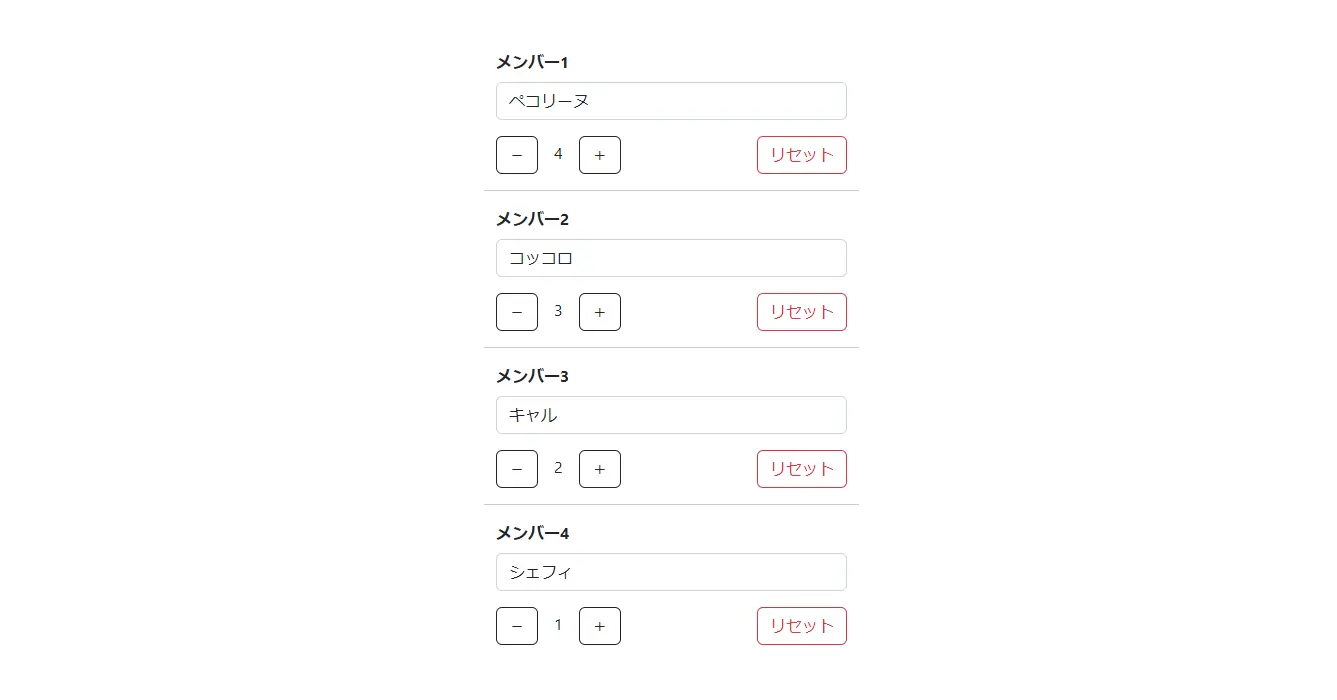
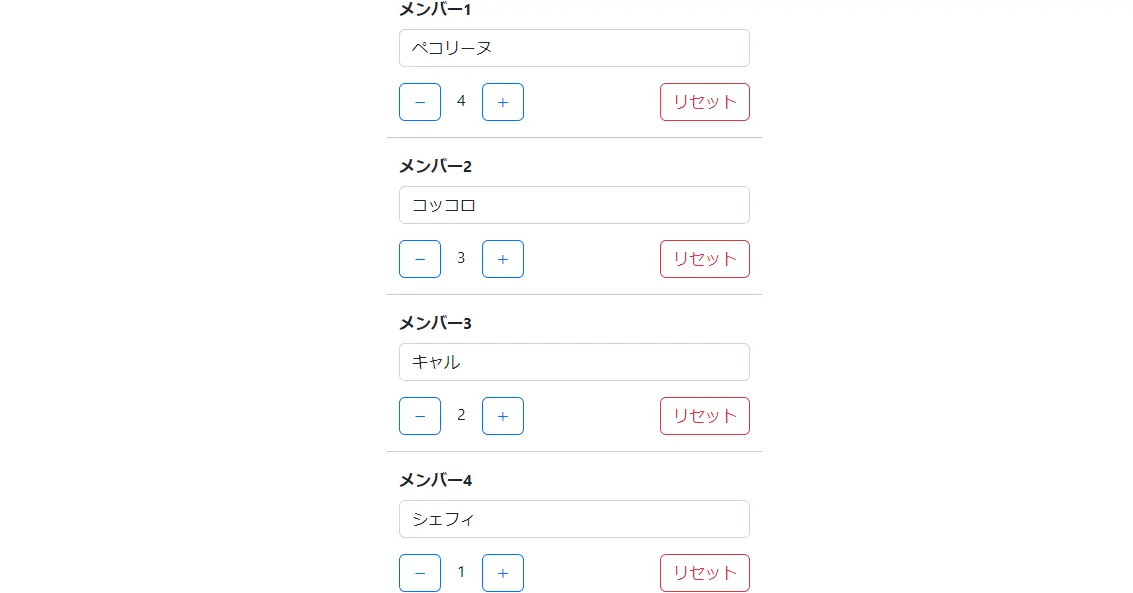
fix

diff --git a/pages/_document.tsx b/pages/_document.tsx
@@ -1,28 +1,46 @@
 import { Html, Head, Main, NextScript } from "next/document";
+import Document, { DocumentContext, DocumentInitialProps } from 'next/document'
+import nookies from "nookies";
 
-export default function Document() {
-  return (
-    <Html>
-      <Head>
-        <meta charSet="utf-8" />
-        <meta name="description" content="プリコネRのいいね管理ツール" />
-        <meta name="twitter:card" content="summary_large_image" />
-        <meta name="twitter:site" content="@JADENgygo" />
-        <meta property="og:type" content="website" />
-        <meta property="og:title" content="プリコネグッド" />
-        <meta property="og:description" content="プリコネRのいいね管理ツール" />
-        <meta property="og:url" content="https://priconne-good.vercel.app" />
-        <meta
-          property="og:image"
-          content="https://priconne-good.vercel.app/img/card.webp"
-        />
-        <link rel="icon" href="/img/peko.png" />
-      </Head>
-      <body>
-        <script src="/script.js" async />
-        <Main />
-        <NextScript />
-      </body>
-    </Html>
-  );
+class MyDocument extends Document {
+  static theme: string = "";
+
+  static async getInitialProps(ctx: DocumentContext): Promise<DocumentInitialProps> {
+    const cookie = nookies.get(ctx);
+    MyDocument.theme = cookie.theme === "dark" ? "dark" : "light";
+    nookies.set(ctx, "theme", MyDocument.theme, {
+      maxAge: 60 * 60 * 24 * 30 * 12 * 1,
+      path: "/"
+    });
+    const initialProps = await Document.getInitialProps(ctx);
+    return initialProps;
+  }
+
+  render() {
+    return (
+      <Html className={MyDocument.theme}>
+        <Head>
+          <meta charSet="utf-8" />
+          <meta name="description" content="プリコネRのいいね管理ツール" />
+          <meta name="twitter:card" content="summary_large_image" />
+          <meta name="twitter:site" content="@JADENgygo" />
+          <meta property="og:type" content="website" />
+          <meta property="og:title" content="プリコネグッド" />
+          <meta property="og:description" content="プリコネRのいいね管理ツール" />
+          <meta property="og:url" content="https://priconne-good.vercel.app" />
+          <meta
+            property="og:image"
+            content="https://priconne-good.vercel.app/img/card.webp"
+          />
+          <link rel="icon" href="/img/peko.png" />
+        </Head>
+        <body className={MyDocument.theme}>
+          <Main />
+          <NextScript />
+        </body>
+      </Html>
+    )
+  }
 }
+
+export default MyDocument

diff --git a/components/header.tsx b/components/header.tsx
@@ -3,11 +3,12 @@ import { Nav, Navbar, Container } from "react-bootstrap";
 import { useEffect, useState } from "react";
 import { getAuth } from "firebase/auth";
 import { Loader } from "./loader";
+import { parseCookies, setCookie } from "nookies";
 
 export const Header = () => {
   const [loaded, setLoaded] = useState(true);
   const router = useRouter();
-  const [theme, setTheme] = useState<"light" | "dark">("light");
+  const [theme, setTheme] = useState<"" | "light" | "dark">("");
   const [authenticated, setAuthenticated] = useState(false);
 
   const auth = getAuth();
@@ -16,16 +17,17 @@ export const Header = () => {
   });
 
   useEffect(() => {
-    const theme = localStorage.getItem("theme");
-    setTheme(theme === "dark" ? "dark" : "light");
+    const cookie = parseCookies();
+    setTheme(cookie.theme === "dark" ? "dark" : "light");
   }, [])
 
   const changeTheme = () => {
-    document.querySelector('html')?.classList.toggle('dark');
-    const theme = localStorage.getItem('theme');
-    localStorage.setItem("theme", theme === "dark" ? "light" : "dark");
-    setTheme(theme === "dark" ? "light" : "dark");
-    window.dispatchEvent(new Event("storage"));
+    const cookie = parseCookies();
+    setCookie(null, "theme", cookie.theme === "dark" ? "light" : "dark", {
+      maxAge: 60 * 60 * 24 * 30 * 12 * 1,
+      path: "/"
+    });
+    router.reload();
   };
 
   const logOut = async () => {
@@ -48,6 +50,7 @@ export const Header = () => {
       collapseOnSelect
       expand="sm"
       className="pt-3 pb-3"
+      variant={theme}
     >
       <Container>
         <Navbar.Brand className="fs-3">
@@ -56,7 +59,7 @@ export const Header = () => {
         <Navbar.Toggle aria-controls="responsive-navbar-nav" />
         <Navbar.Collapse id="responsive-navbar-nav">
           <Nav>
-            <div className="text-nowrap text-white row row-cols-auto">
+            <div className="text-nowrap row row-cols-auto">
               <div className="col">
                 <Nav.Link href="#" className="active link" onClick={() => router.push("/")}>ホーム</Nav.Link>
               </div>
@@ -74,7 +77,7 @@ export const Header = () => {
                   </div>
                 )}
               </div>
-              <div className="col">
+              <div className="col" style={{visibility: theme === "" ? "hidden" : "visible"}}>
                 <Nav.Link href="#" className="active link" onClick={changeTheme}>ダークモード: {theme === "light" ? "オフ": "オン"}</Nav.Link>
               </div>
               {authenticated && (

diff --git a/pages/edit.tsx b/pages/edit.tsx
@@ -170,7 +170,7 @@ const Edit: NextPage = () => {
               <div className="col">
                 <button
                   type="button"
-                  className="btn btn-outline-dark"
+                  className="btn btn-outline-primary"
                   onClick={decrement(i)}
                   id={"minusButton" + i.toString()}
                 >
@@ -190,7 +190,7 @@ const Edit: NextPage = () => {
                 </span>
                 <button
                   type="button"
-                  className="btn btn-outline-dark"
+                  className="btn btn-outline-primary"
                   onClick={increment(i)}
                   id={"plusButton" + i.toString()}
                 >
@@ -210,7 +210,7 @@ const Edit: NextPage = () => {
                     </button>
                     <button
                       type="button"
-                      className="btn btn-outline-dark"
+                      className="btn btn-outline-primary"
                       onClick={cancelReset(i)}
                       id={"cancelResetButton" + i.toString()}
                     >
@@ -246,7 +246,7 @@ const Edit: NextPage = () => {
             </button>
             <button
               type="button"
-              className="btn btn-outline-dark"
+              className="btn btn-outline-primary"
               onClick={cancelAllReset}
               id="cancelAllResetButton"
             >

diff --git a/pages/index.tsx b/pages/index.tsx
@@ -5,6 +5,7 @@ import { signOut, getAuth } from "firebase/auth";
 import { getAuth as getAdminAuth } from "firebase-admin/auth";
 import { initFirebaseAdminApp } from "../lib/firebase-admin";
 import { useEffect, useState } from "react";
+import { parseCookies } from "nookies";
 import Image from "next/future/image";
 
 type Props = {
@@ -12,7 +13,7 @@ type Props = {
 };
 
 const Home: NextPage<Props> = (props: Props) => {
-  const [theme, setTheme] = useState<"light" | "dark">("light");
+  const [theme, setTheme] = useState<"" | "light" | "dark">("");
   useEffect(() => {
     // ログイン中にユーザーがクッキーを削除した場合はログアウトする
     const f = async () => {
@@ -26,8 +27,8 @@ const Home: NextPage<Props> = (props: Props) => {
 
   useEffect(() => {
     const f = () => {
-      const theme = localStorage.getItem("theme");
-      setTheme(theme === "dark" ? "dark" : "light");
+      const cookie = parseCookies();
+      setTheme(cookie.theme === "dark" ? "dark" : "light");
     };
     f();
     window.addEventListener('storage', f);
@@ -56,6 +57,7 @@ const Home: NextPage<Props> = (props: Props) => {
             alt="priconne-good"
             width={375}
             height={593}
+            style={{visibility: theme === "" ? "hidden" : "visible"}}
           />
         </div>
         <div>

diff --git a/styles/globals.scss b/styles/globals.scss
@@ -30,13 +30,18 @@ a, a:hover {
 }
 
 .dark {
-  filter: invert(1) hue-rotate(180deg);
-
-  body {
-    background-color: $gray-300;
+  background-color: $dark;
+  color: $light;
+  
+  input, input:focus {
+    color: $light;
+    background-color: $dark;
+  }
+  input:disabled {
+    background-color: $black;
   }
 
-  img, .keep {
-    filter: invert(1) hue-rotate(180deg);
+  a, a:hover {
+    color: $light !important;
   }
 }

diff --git a/pages/signin.tsx b/pages/signin.tsx
@@ -23,7 +23,7 @@ const Signin: NextPage = () => {
       <div className="text-center">
         <button
           type="button"
-          className={`btn btn-outline-dark mt-3 text-center`}
+          className={`btn btn-primary mt-3 text-center`}
           onClick={loginByTwitter}
           id="twitterLogin"
         >
